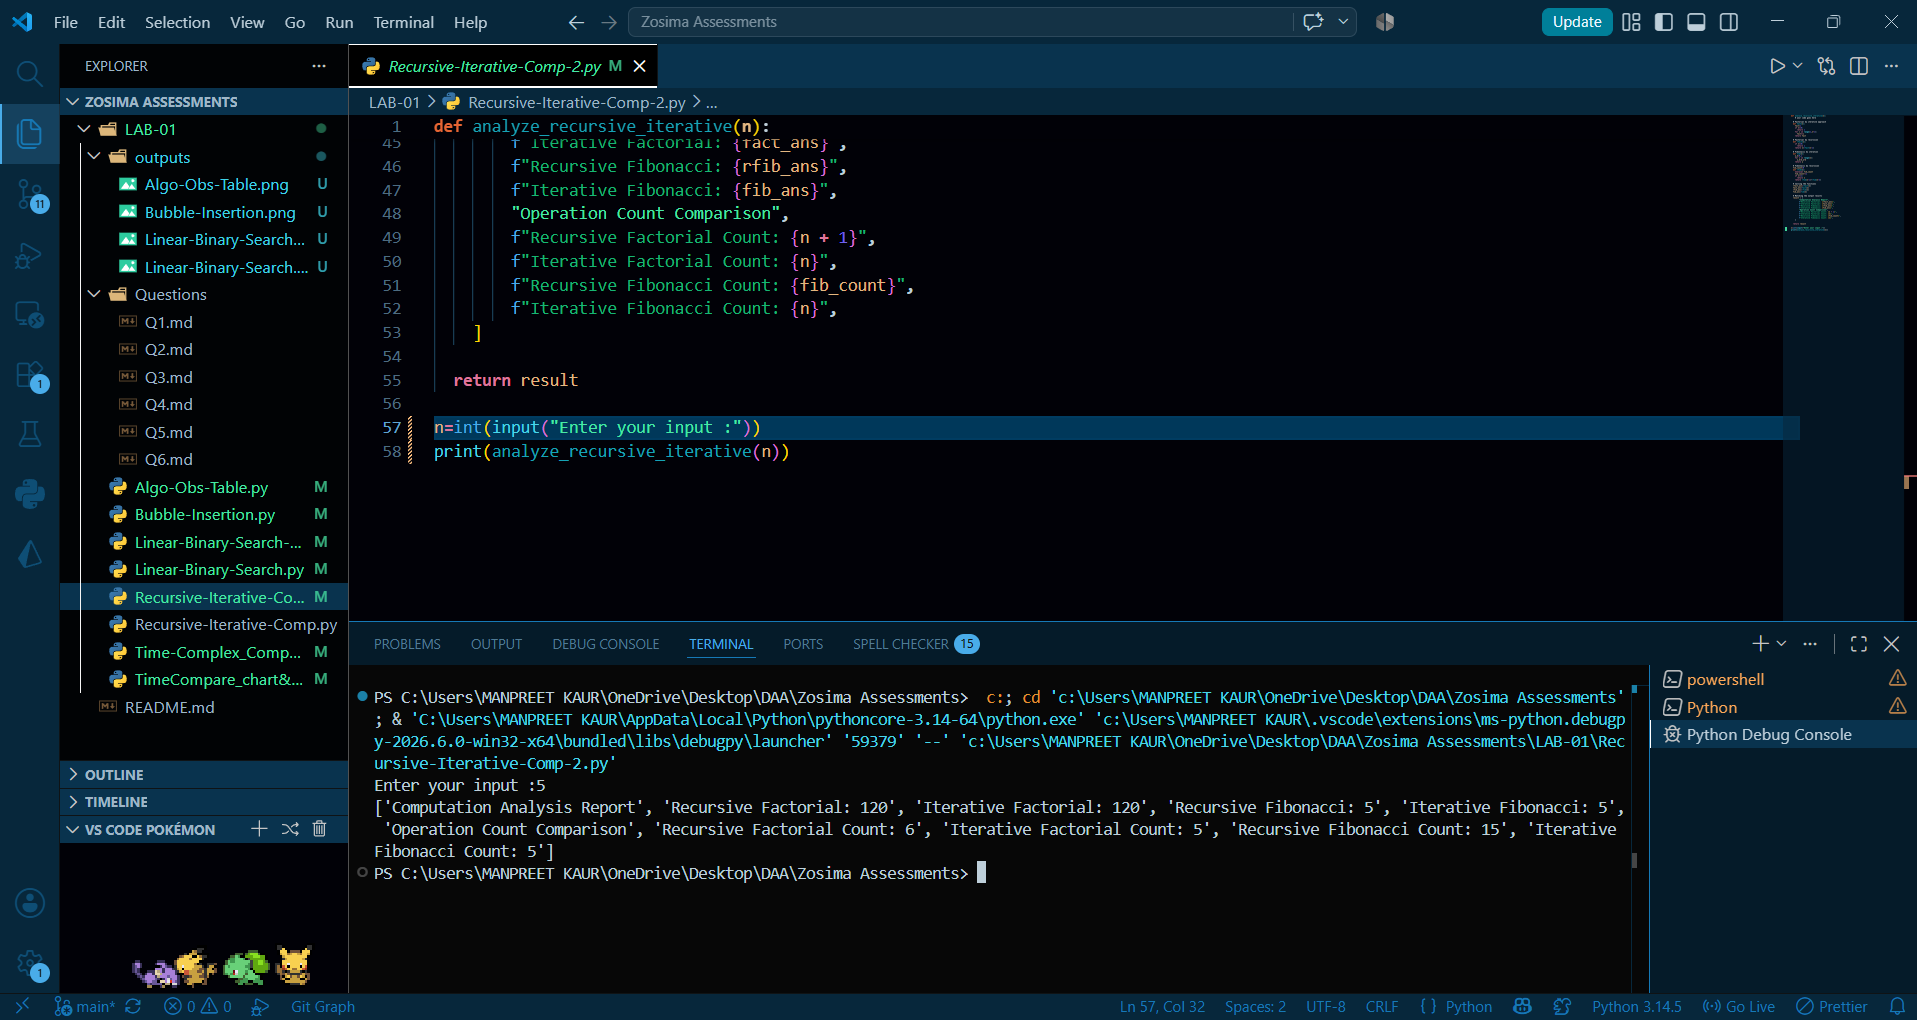
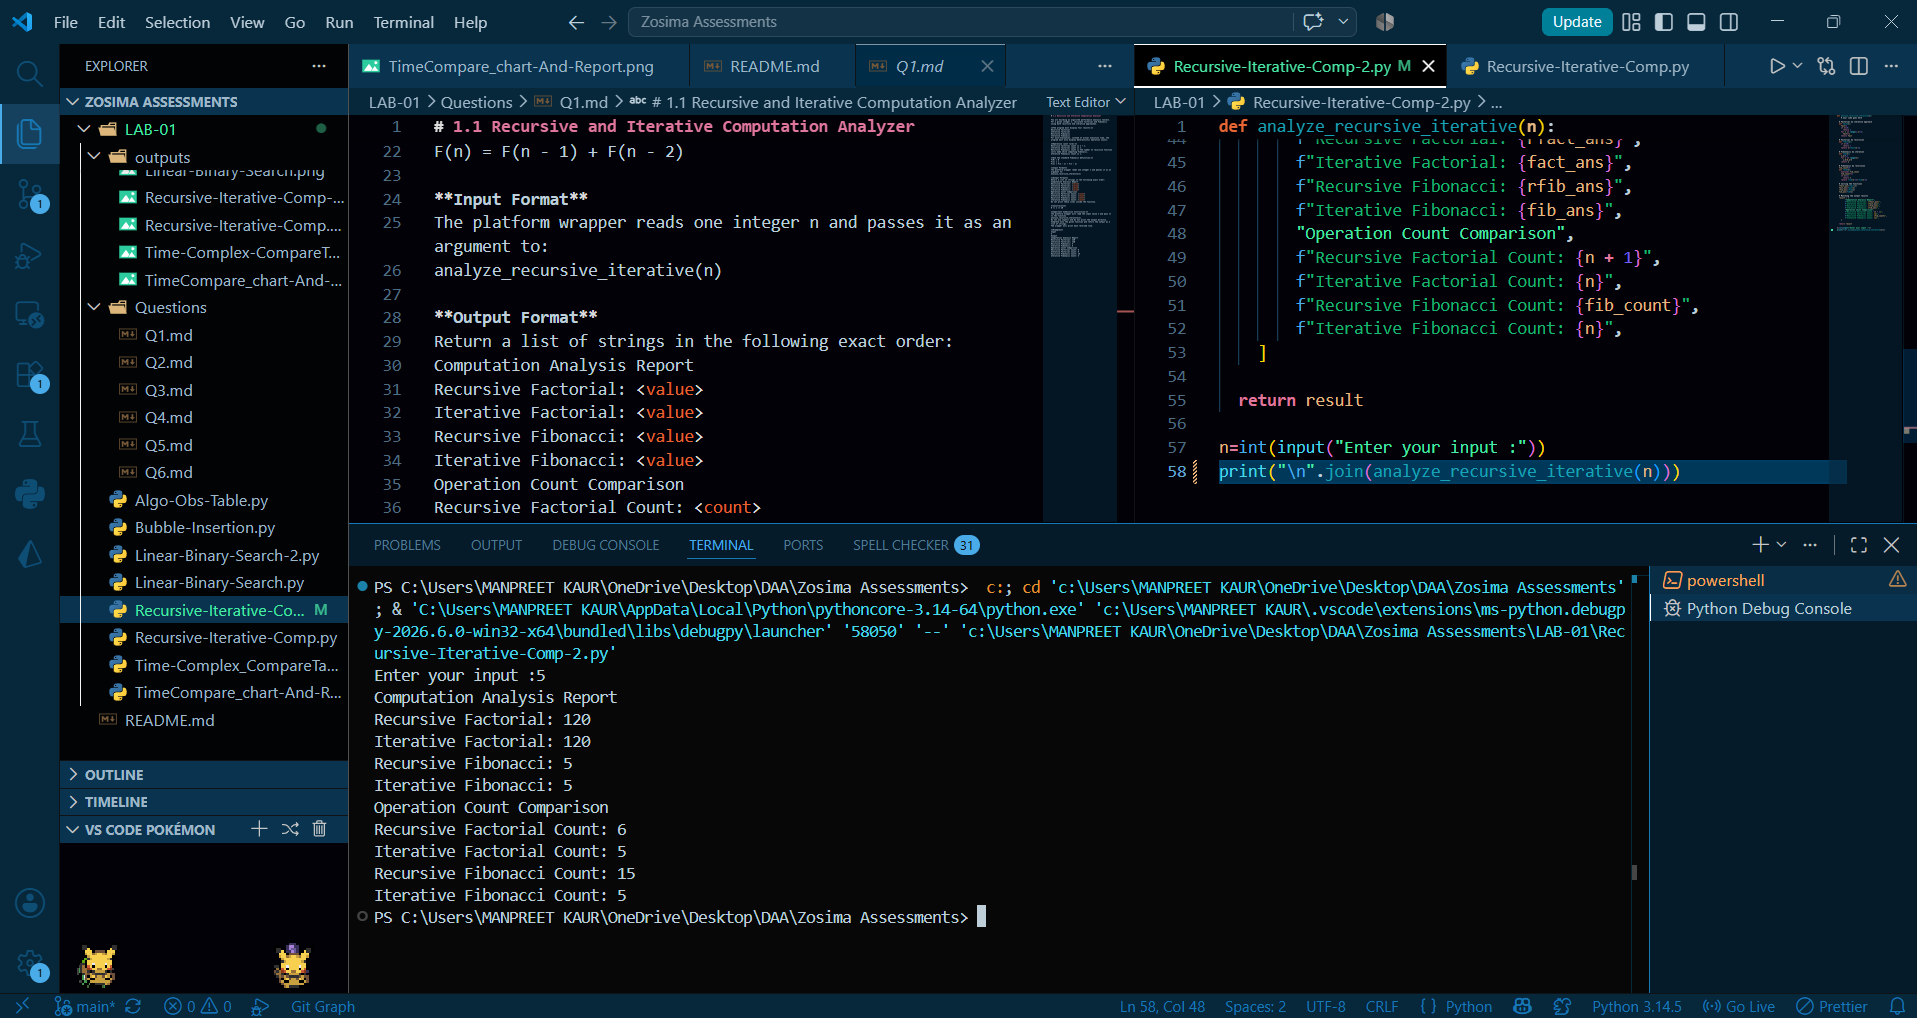
made some changes to get the proper format of the output

Changed region(s): [[0.0308, 0.0305, 1.0, 0.9136], [0.0, 0.9136, 0.1847, 1.0], [0.5848, 0.9745, 1.0, 1.0]]

diff --git a/LAB-01/Recursive-Iterative-Comp-2.py b/LAB-01/Recursive-Iterative-Comp-2.py
@@ -55,4 +55,4 @@ def analyze_recursive_iterative(n):
   return result
 
 n=int(input("Enter your input :"))
-print(analyze_recursive_iterative(n))
+print("\n".join(analyze_recursive_iterative(n)))
